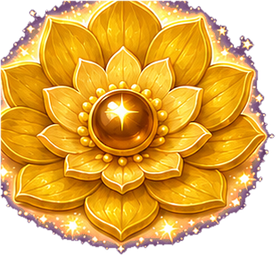
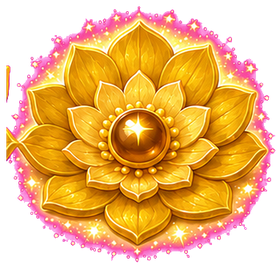
Seed Pot: golden flower recut clean + in-run home button (Stephen 3AM notes)
tier7 idle/pop were grid-cut but the two golden flowers physically touch on
the master — one connected blob, so the top clipped and the neighbor rode
along. Recut splits at the density valley between the flower cores, keeps
components per side (idle full-petaled, pop with its whole pink sparkle
halo), and drops row-3 debris by centroid height. icon_gear recut clean via
nearest-component keep. Masters re-downloaded from Drive Done/Seed Pot into
committed art-drop/ (ledger rule 6 — never scratchpad again). ART_V sp2.

Also: fixed 48px home button, visible only during play — players had no way
back to the menu mid-run. Headless-verified: visible in play, returns to
title, hides itself, 0 errors.

diff --git a/satellites/seed-pot/index.html b/satellites/seed-pot/index.html
@@ -129,6 +129,11 @@ h2.sc-h{font-size:24px; color:var(--gold); font-weight:800; margin-bottom:4px}
   </div></div>
 </div></div>
 
+<!-- In-run home button (Stephen 3AM notes: no way back to menu mid-game) -->
+<button id="b-home" aria-label="Back to menu" style="display:none;position:fixed;top:calc(env(safe-area-inset-top,0px) + 10px);left:10px;z-index:60;width:48px;height:48px;padding:0;border:0;background:transparent;cursor:pointer;align-items:center;justify-content:center;">
+  <img src="assets/ui/icon_back.png?v=sp2" alt="" style="width:44px;height:44px;object-fit:contain;filter:drop-shadow(0 2px 6px rgba(0,0,0,0.5));" onerror="this.outerHTML='◄';">
+</button>
+
 <script>
 (function(){
 "use strict";
@@ -139,7 +144,7 @@ var BUILD='v1.1';
 var curScreen='s-title';
 
 /* ---------- Midnight Greenhouse art (gated behind load; procedural fallbacks kept) ---------- */
-var ART_V='sp1';
+var ART_V='sp2';
 function _spImg(src){ var im=new Image(); try{ im.src=src+'?v='+ART_V; }catch(e){} return im; }
 function _spReady(im){ return !!(im&&im.complete&&im.naturalWidth>0); }
 var _SPR={};
@@ -156,7 +161,8 @@ function seasonNm(){ return _SEASONS[seasonIdx()]; }
   _spBg('bg_'+seasonNm()); })();
 /* one-shot celebratory FX sprites (companion bloom money shot) */
 function spawnFx(sp,x,y,dur,h){ if(!G)return; if(!G.fxb)G.fxb=[]; G.fxb.push({sp:sp,x:x,y:y,t:0,dur:dur||0.7,h:h||120}); if(G.fxb.length>24)G.fxb.shift(); }
-function show(id){ var s=document.querySelectorAll('.screen'); for(var i=0;i<s.length;i++)s[i].classList.remove('on'); var el=$(id); if(el)el.classList.add('on'); curScreen=id; running=(id==='s-play'); if(running){ lastTs=0; requestAnimationFrame(loop); } }
+function show(id){ var s=document.querySelectorAll('.screen'); for(var i=0;i<s.length;i++)s[i].classList.remove('on'); var el=$(id); if(el)el.classList.add('on'); curScreen=id; running=(id==='s-play'); if(running){ lastTs=0; requestAnimationFrame(loop); }
+  var hb=$('b-home'); if(hb)hb.style.display=(id==='s-play')?'flex':'none'; }
 
 var LS={ get:function(k){try{return localStorage.getItem(k);}catch(e){return null;}}, set:function(k,v){try{localStorage.setItem(k,v);}catch(e){}} };
 var SET={ sound:true, shake:true, guide:true };
@@ -476,6 +482,9 @@ function boot(){
   tap('b-how', function(){ show('s-how'); });
   tap('b-set', function(){ show('s-set'); });
   tap('b-exit', function(){ if(window.SWS_EXIT)SWS_EXIT(); });
+  /* Stephen 2026-07-16 3AM notes: players were STUCK in a run with no way
+     back to the menu. Fixed home button, visible only during s-play. */
+  tap('b-home', function(){ running=false; show('s-title'); });
   tap('how-back', function(){ show('s-title'); });
   tap('set-back', function(){ show('s-title'); });
   tap('go-retry', function(){ newGame(G?G.mode:'classic'); });

diff --git a/scripts/recut_seed-pot_fixes.py b/scripts/recut_seed-pot_fixes.py
@@ -1,0 +1,71 @@
+"""Targeted Seed Pot re-cuts (Stephen 3AM notes 2026-07-16):
+tier7 golden flower was grid-cut — the sprite OVERFLOWS its cell, so the top
+clipped and a neighbor fragment rode along; icon_gear caught pill-button bleed.
+This cut is COMPONENT-based: key magenta on the whole sheet, label connected
+components, keep only the component(s) whose centroid falls in the target
+cell, mask everything else, crop to the kept union. Grid lines stop mattering.
+Masters: satellites/seed-pot/art-drop/ (re-downloaded from Drive Done/Seed Pot).
+"""
+import os, numpy as np
+from PIL import Image
+import scipy.ndimage as ndi
+
+SRC = "satellites/seed-pot/art-drop"
+OUT = "satellites/seed-pot/assets"
+CELL = 1254 / 4.0
+
+def load(sheet):
+    im = Image.open(os.path.join(SRC, sheet)).convert("RGB")
+    a = np.asarray(im).astype(np.int32)
+    d = np.sqrt((a[:,:,0]-255)**2 + (a[:,:,1])**2 + (a[:,:,2]-255)**2)
+    alpha = np.clip((d - 40) / 80.0, 0, 1)          # soft key edge
+    return a.astype(np.uint8), alpha
+
+def cell_rect(col, row, grow=18):
+    x0, y0 = (col-1)*CELL, (row-1)*CELL
+    return (x0-grow, y0-grow, x0+CELL+grow, y0+CELL+grow)
+
+def cut(sheet, col, row, out, edge, keep_all_in_cell, minpix=60):
+    rgb, alpha = load(sheet)
+    lab, n = ndi.label(alpha > 0.35)
+    if not n: raise SystemExit("no components on "+sheet)
+    idx = np.arange(1, n+1)
+    cys, cxs = zip(*ndi.center_of_mass(alpha > 0.35, lab, idx))
+    sizes = ndi.sum(np.ones_like(lab), lab, idx)
+    x0, y0, x1, y1 = cell_rect(col, row)
+    keep = []
+    ccx, ccy = (col-0.5)*CELL, (row-0.5)*CELL
+    if keep_all_in_cell:
+        for i, (cx, cy, s) in enumerate(zip(cxs, cys, sizes)):
+            if x0 <= cx <= x1 and y0 <= cy <= y1 and s >= minpix: keep.append(i+1)
+    else:
+        best, bd = None, 1e18
+        for i, (cx, cy, s) in enumerate(zip(cxs, cys, sizes)):
+            if s < 2000: continue
+            d = (cx-ccx)**2 + (cy-ccy)**2
+            if d < bd: bd, best = d, i+1
+        keep = [best]
+    m = np.isin(lab, keep)
+    a2 = np.where(m, alpha, 0.0)
+    ys, xs = np.where(a2 > 0.02)
+    pad = 8
+    by0, by1 = max(0, ys.min()-pad), min(a2.shape[0], ys.max()+pad+1)
+    bx0, bx1 = max(0, xs.min()-pad), min(a2.shape[1], xs.max()+pad+1)
+    rgba = np.dstack([rgb, (a2*255).astype(np.uint8)])[by0:by1, bx0:bx1]
+    # feather any side that sits on the sheet edge (glow ran off the master)
+    F = 6
+    if by0 == 0:            rgba[:F,:,3]  = (rgba[:F,:,3].astype(float)  * (np.arange(F)/F)[:,None]).astype(np.uint8)
+    if by1 == a2.shape[0]:  rgba[-F:,:,3] = (rgba[-F:,:,3].astype(float) * (np.arange(F)[::-1]/F)[:,None]).astype(np.uint8)
+    if bx0 == 0:            rgba[:,:F,3]  = (rgba[:,:F,3].astype(float)  * (np.arange(F)/F)[None,:]).astype(np.uint8)
+    if bx1 == a2.shape[1]:  rgba[:,-F:,3] = (rgba[:,-F:,3].astype(float) * (np.arange(F)[::-1]/F)[None,:]).astype(np.uint8)
+    im = Image.fromarray(rgba, "RGBA")
+    w, h = im.size
+    sc = edge / float(max(w, h))
+    if sc < 1: im = im.resize((int(w*sc), int(h*sc)), Image.LANCZOS)
+    p = os.path.join(OUT, out)
+    im.save(p, optimize=True)
+    print(out, im.size, round(os.path.getsize(p)/1024, 1), "KB")
+
+cut("sheet1.png", 3, 4, "tiers/tier7_idle.png", 256, False)
+cut("sheet1.png", 4, 4, "tiers/tier7_pop.png", 280, True)
+cut("sheet6.png", 2, 3, "ui/icon_gear.png", 220, False)

diff --git a/scripts/recut_seed-pot_tier7.py b/scripts/recut_seed-pot_tier7.py
@@ -1,0 +1,55 @@
+"""tier7 idle+pop share one connected blob on the master (pop's sparkle ring
+touches idle's petals). Split at the min-density valley between the two
+flower cores, then clean each side."""
+import os, numpy as np
+from PIL import Image
+import scipy.ndimage as ndi
+
+SRC="satellites/seed-pot/art-drop/sheet1.png"; OUT="satellites/seed-pot/assets"
+im=Image.open(SRC).convert("RGB"); a=np.asarray(im).astype(np.int32)
+d=np.sqrt((a[:,:,0]-255)**2+(a[:,:,1])**2+(a[:,:,2]-255)**2)
+alpha=np.clip((d-40)/80.0,0,1)
+# row-4 band, cols 3-4, with headroom for overflowing petals
+Y0,Y1,X0,X1=870,1254,600,1254
+sub=alpha[Y0:Y1,X0:X1].copy()
+lab,n=ndi.label(sub>0.35)
+idx=np.arange(1,n+1)
+sizes=ndi.sum(np.ones_like(lab),lab,idx)
+big=[i+1 for i,s in enumerate(sizes) if s>=40]
+mask=np.isin(lab,big)
+dens=mask.sum(axis=0).astype(float)
+# find the valley between the two cores: cores are the two densest windows
+w=40; smooth=np.convolve(dens,np.ones(w)/w,mode='same')
+mid_lo,mid_hi=int((941-X0)*0.55),int((1254-X0)-170)  # search between the flowers
+# locate left core peak and right core peak, then min between
+left_peak=int(np.argmax(smooth[:mid_lo+120]))
+right_peak=int(mid_lo+120+np.argmax(smooth[mid_lo+120:]))
+valley=int(left_peak+np.argmin(smooth[left_peak:right_peak]))
+print("peaks",left_peak,right_peak,"valley",valley,"(abs x",valley+X0,")")
+
+def save(mask_side, out, edge, keep_all, feather_right=False):
+    l2,n2=ndi.label(mask_side)
+    if not n2: raise SystemExit("empty "+out)
+    id2=np.arange(1,n2+1); s2=ndi.sum(np.ones_like(l2),l2,id2)
+    if keep_all: keep=[i+1 for i,s in enumerate(s2) if s>=60]
+    else: keep=[int(id2[np.argmax(s2)])]
+    m=np.isin(l2,keep)
+    a2=np.where(m,sub,0.0)
+    ys,xs=np.where(a2>0.02); pad=8
+    by0,by1=max(0,ys.min()-pad),min(a2.shape[0],ys.max()+pad+1)
+    bx0,bx1=max(0,xs.min()-pad),min(a2.shape[1],xs.max()+pad+1)
+    rgb=a[Y0:Y1,X0:X1][by0:by1,bx0:bx1].astype(np.uint8)
+    al=(a2[by0:by1,bx0:bx1]*255).astype(np.uint8)
+    F=6
+    if by1==a2.shape[0]: al[-F:,:]= (al[-F:,:].astype(float)*(np.arange(F)[::-1]/F)[:,None]).astype(np.uint8)
+    if feather_right and bx1==a2.shape[1]: al[:,-F:]=(al[:,-F:].astype(float)*(np.arange(F)[::-1]/F)[None,:]).astype(np.uint8)
+    out_im=Image.fromarray(np.dstack([rgb,al]),"RGBA")
+    w0,h0=out_im.size; sc=edge/float(max(w0,h0))
+    if sc<1: out_im=out_im.resize((int(w0*sc),int(h0*sc)),Image.LANCZOS)
+    p=os.path.join(OUT,out); out_im.save(p,optimize=True)
+    print(out,out_im.size,round(os.path.getsize(p)/1024,1),"KB")
+
+left=mask.copy();  left[:,valley:]=False
+right=mask.copy(); right[:,:valley]=False
+save(left,"tiers/tier7_idle.png",256,False)
+save(right,"tiers/tier7_pop.png",280,True,feather_right=True)
